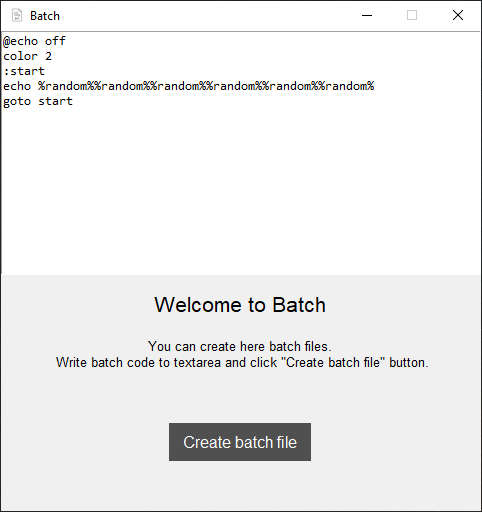
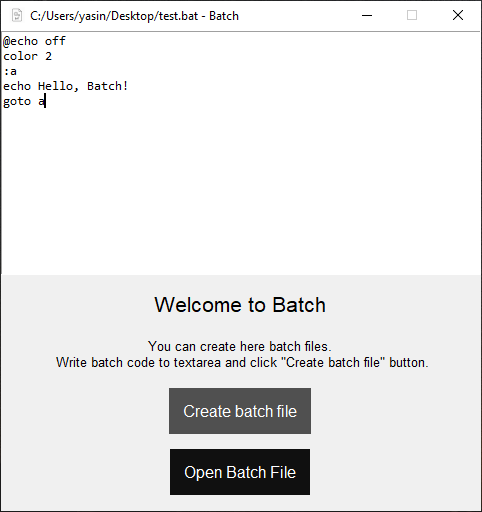
Version 0.2 added

diff --git a/README.md b/README.md
@@ -4,7 +4,7 @@
 
 <img src="./res/batch.png"></img>
 
-<span>Version: 0.1</span>
+<span>Version: 0.2</span>
 
 <h2><b>How to setup?</b></h2>
 
